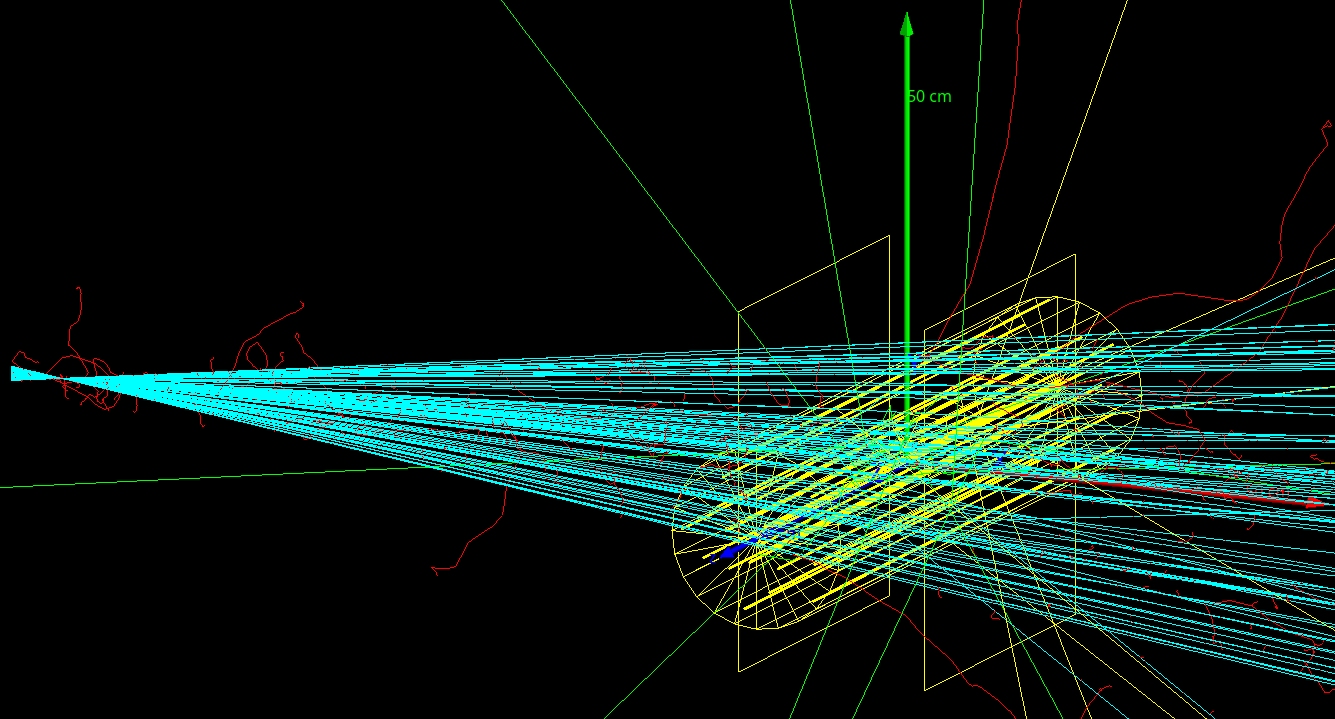
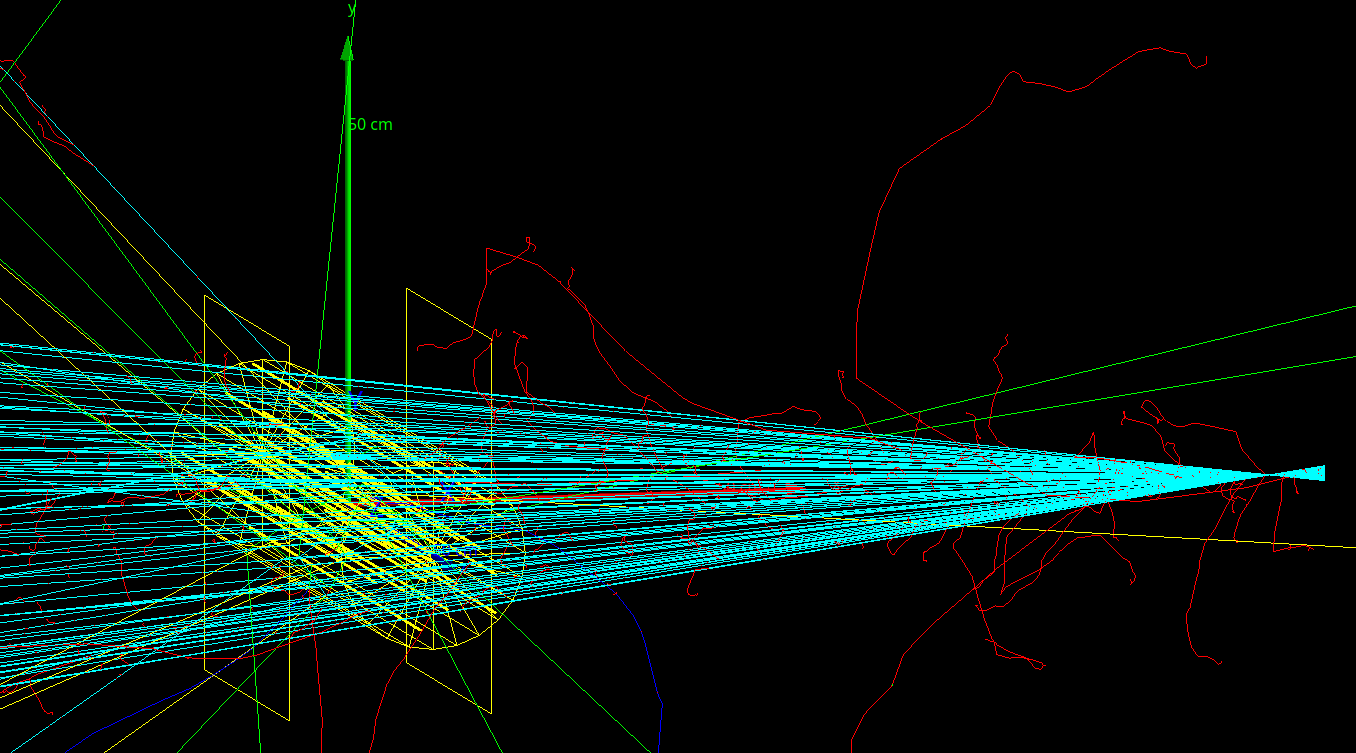
Fix small errors in proton CT example

diff --git a/docs/source/user_guide/user_guide_how_to_convert_example_1.rst b/docs/source/user_guide/user_guide_how_to_convert_example_1.rst
@@ -158,7 +158,6 @@ GATE 10
            add_spiral_insert(sim, spiral, f"SpiralInsert{i:02d}", translation=[posx[i] * mm, posy[i] * mm, 0])
 
       # Spiral rotation
-      sim.run_timing_intervals = gate.runtiming.range_timing(0, 1 * sec, n)
       tr, rot = gate.geometry.utility.volume_orbiting_transform("z", 0, 360, n, spiral.translation, spiral.rotation)
       spiral.add_dynamic_parametrisation(translation=tr, rotation=rot)
 
@@ -202,9 +201,9 @@ GATE 10
     source.energy.type = "mono"
     source.position.type = "box"
     source.position.size = [1 * nm, 16 * mm, 1 * nm]
-    source.position.translation = [-1060 * mm, 0 * mm, 0 * mm]
+    source.position.translation = [1060 * mm, 0 * mm, 0 * mm]
     source.direction.type = "focused"
-    source.direction.focus_point = [-1000 * mm, 0 * mm, 0 * mm]
+    source.direction.focus_point = [1000 * mm, 0 * mm, 0 * mm]
     source.n = 720000 / sim.number_of_threads
 
 
@@ -324,8 +323,8 @@ GATE 10
           phase_space.filters.append(filter)
           return phase_space
 
-      phsp_actor_in = add_detector(sim, "In", [-110 * mm, 0 * mm, 0 * mm])
-      phsp_actor_out = add_detector(sim, "Out", [110 * mm, 0 * mm, 0 * mm])
+      phsp_actor_in = add_detector(sim, "In", [110 * mm, 0 * mm, 0 * mm])
+      phsp_actor_out = add_detector(sim, "Out", [-110 * mm, 0 * mm, 0 * mm])
       phsp_actor_in.output_filename = "PhaseSpaceIn.root"
       phsp_actor_out.output_filename = "PhaseSpaceOut.root"
 
